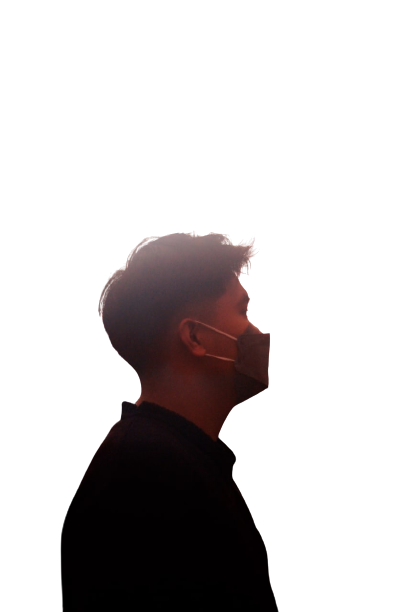
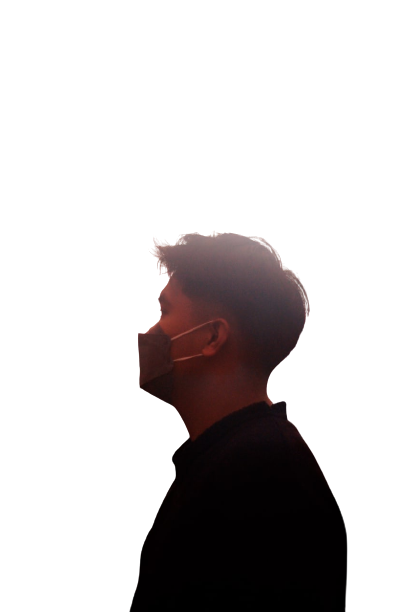
fixed css and html

Changed region(s): [[0.1474, 0.3725, 0.855, 1.0]]

diff --git a/style.css b/style.css
@@ -1,14 +1,17 @@
 *{
     margin: 0;
     padding: 0;
-    font-family: sans-serif;
+    font-family: CHAWP;
+}
+html{
+    scroll-behavior: smooth;
 }
 
 .hero{
     position: relative;
     height: 100vh;
     width: 100%;
-    background: #f6f6f6;
+    background: #324575;
 }
 
 nav{
@@ -28,21 +31,94 @@ nav ul li{
 
 nav ul li a{
     text-decoration: none;
-    color: black;
+    color: white;
     font-weight: bold;
 }
 
 nav ul li a:hover{
-    color: blue;
+    color: darkorange;
+    font-style: italic;
 }
 
 .content{
     margin-left: 8%;
-    margin-top: 15%;
+    margin-top: 13%;
 }
 
 .content h1{
     font-size: 50px;
-    color: black;
+    color: white;
     margin-bottom: 20px;
+}
+
+span{
+    color: #9e9e9e;
+}
+span:hover{
+    color:darkorange;
+    font-style:italic;
+}
+
+.content p{
+    color: #ffffff;
+    line-height: 22px;
+}
+
+.content a{
+    background: black;
+    padding: 10px 18px;
+    text-decoration: none;
+    font-weight: bold;
+    color: white;
+    display: inline-block;
+    margin: 30px 0;
+    border-radius: 5px;
+}
+
+.content a:hover{
+    background: darkorange;
+    color: white;
+}
+
+
+.pics me{
+    height: 100%;
+    position: absolute;
+    right: 100%;
+    left: 50%;
+    bottom: 0;
+    transform: translateX(-50%);
+    transition: bottom 1s, left 1s;
+}
+
+.pics me:hover{
+    left: 45%;
+}
+
+#home{
+    height: 100vh;
+    background: #324575;
+    display: inline-block;
+    width: 100%;
+}
+
+#work{
+    height: 100vh;
+    background: white;
+    display: inline-block;
+    width: 100%;
+}
+
+#about{
+    height: 100vh;
+    background: #324575;
+    display: inline-block;
+    width: 100%;
+}
+
+#cont{
+    height: 100vh;
+    background: white;
+    display: inline-block;
+    width: 100%;
 }

diff --git a/index.html b/index.html
@@ -12,18 +12,31 @@
         <nav>
             <img src="src/logo.png" alt="logo" class="logo">
             <ul>
-                <li><a href="#">HOME</a></li>
-                <li><a href="#">WORK</a></li>
-                <li><a href="#">ABOUT</a></li>
+                <li><a href="#home">HOME</a></li>
+                <li><a href="#work">WORK</a></li>
+                <li><a href="#about">ABOUT</a></li>
+                <li><a href="#cont">CONTACT</a></li>
             </ul>
         </nav>
-        <div class="content">
-            <h1>Kamusta! I am Cris <span>Lawrence</span></h1>
-            <p>I am a Frontend Intern at Code and Theory and
-                <br>This is my Portfolio website
-            </p>
-        <a href="#">DOWNLOAD RESUME</a>
+
+        <div id="home" class="content">
+            <h1>Kamusta! I'm Cris <span>Lawrence</span></h1>
+            <p>I am a Frontend Intern at Code and Theory and this is my Portfolio website</p>
+            <a href="src/SIDORO Cris Lawrence_Resume.pdf">VIEW RESUME</a>
+        <div class="pics">
+            <img src="src/image1.png" class="me">
         </div>
+        </div>
+
+        <div id="work">
+        </div>
+
+        <div id="about">
+        </div>
+
+        <div id="cont">
+        </div>
+
 
     </div>
 
